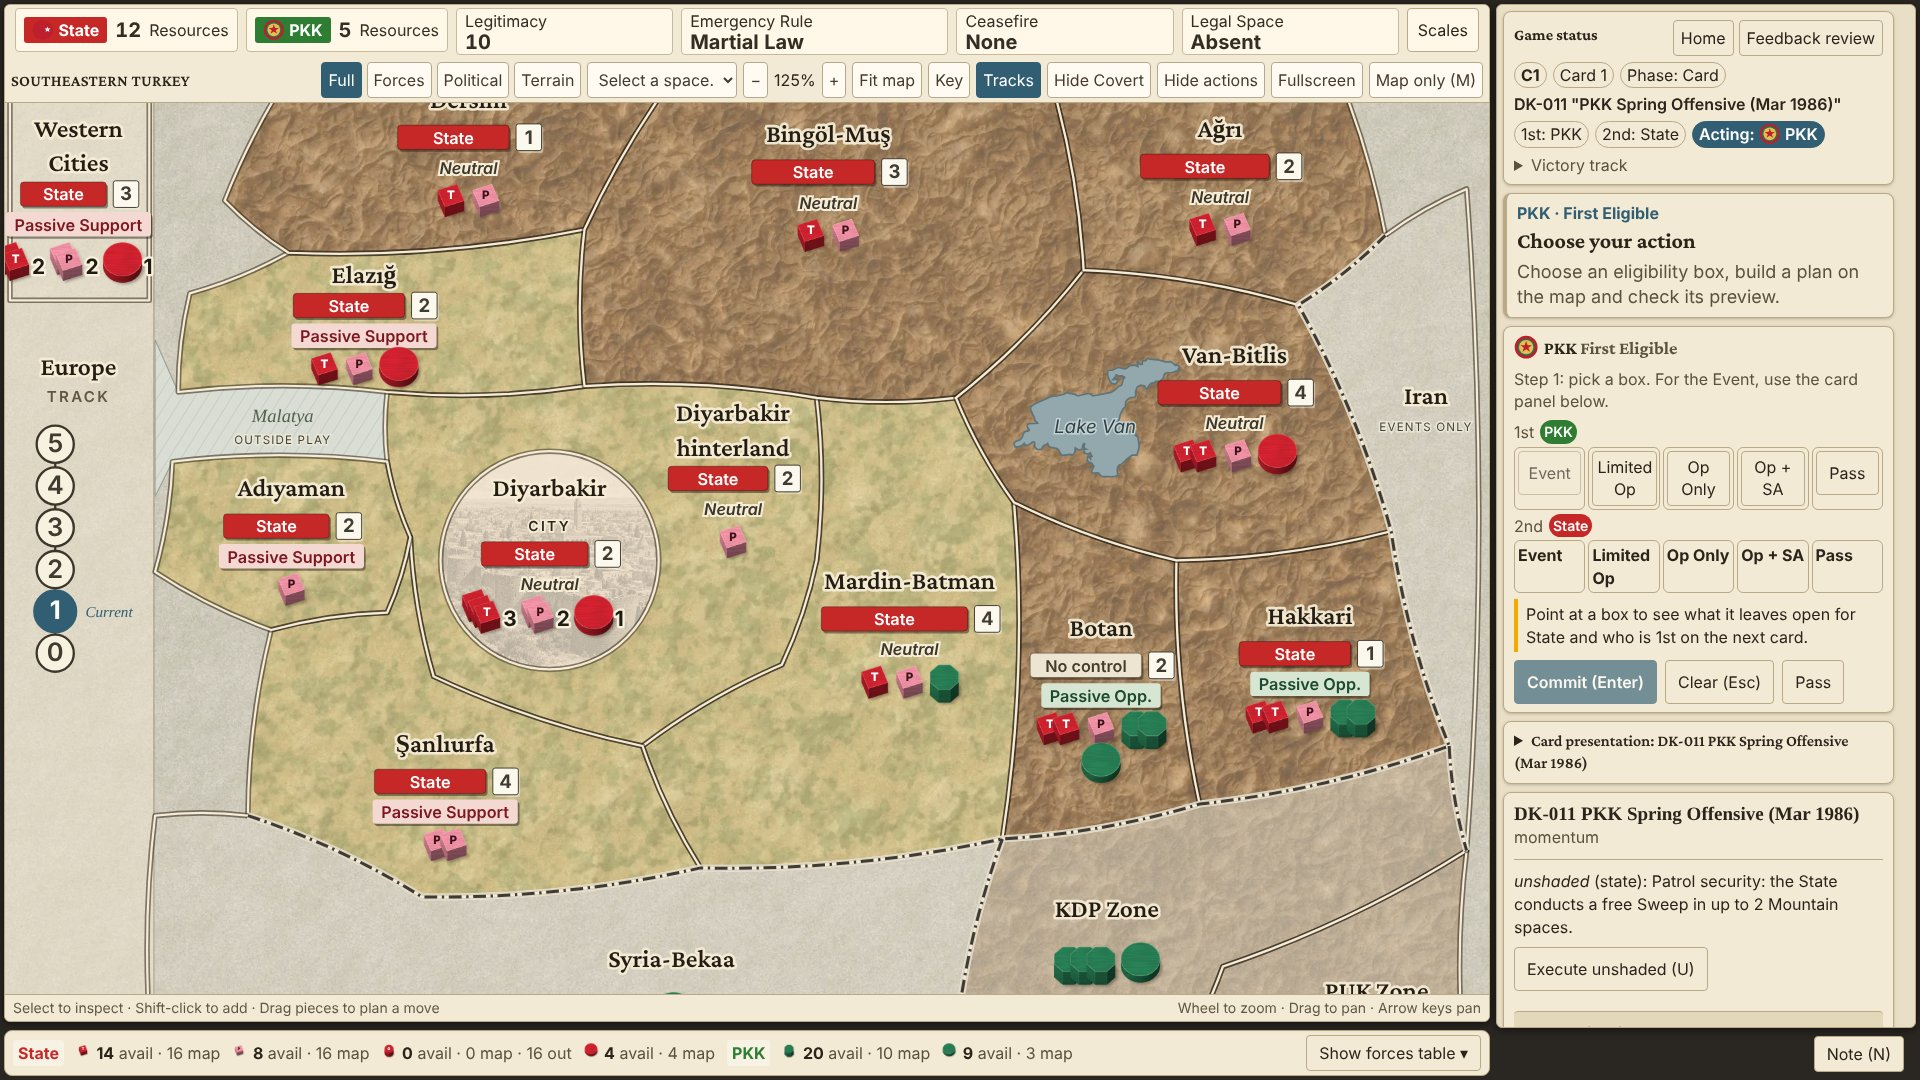
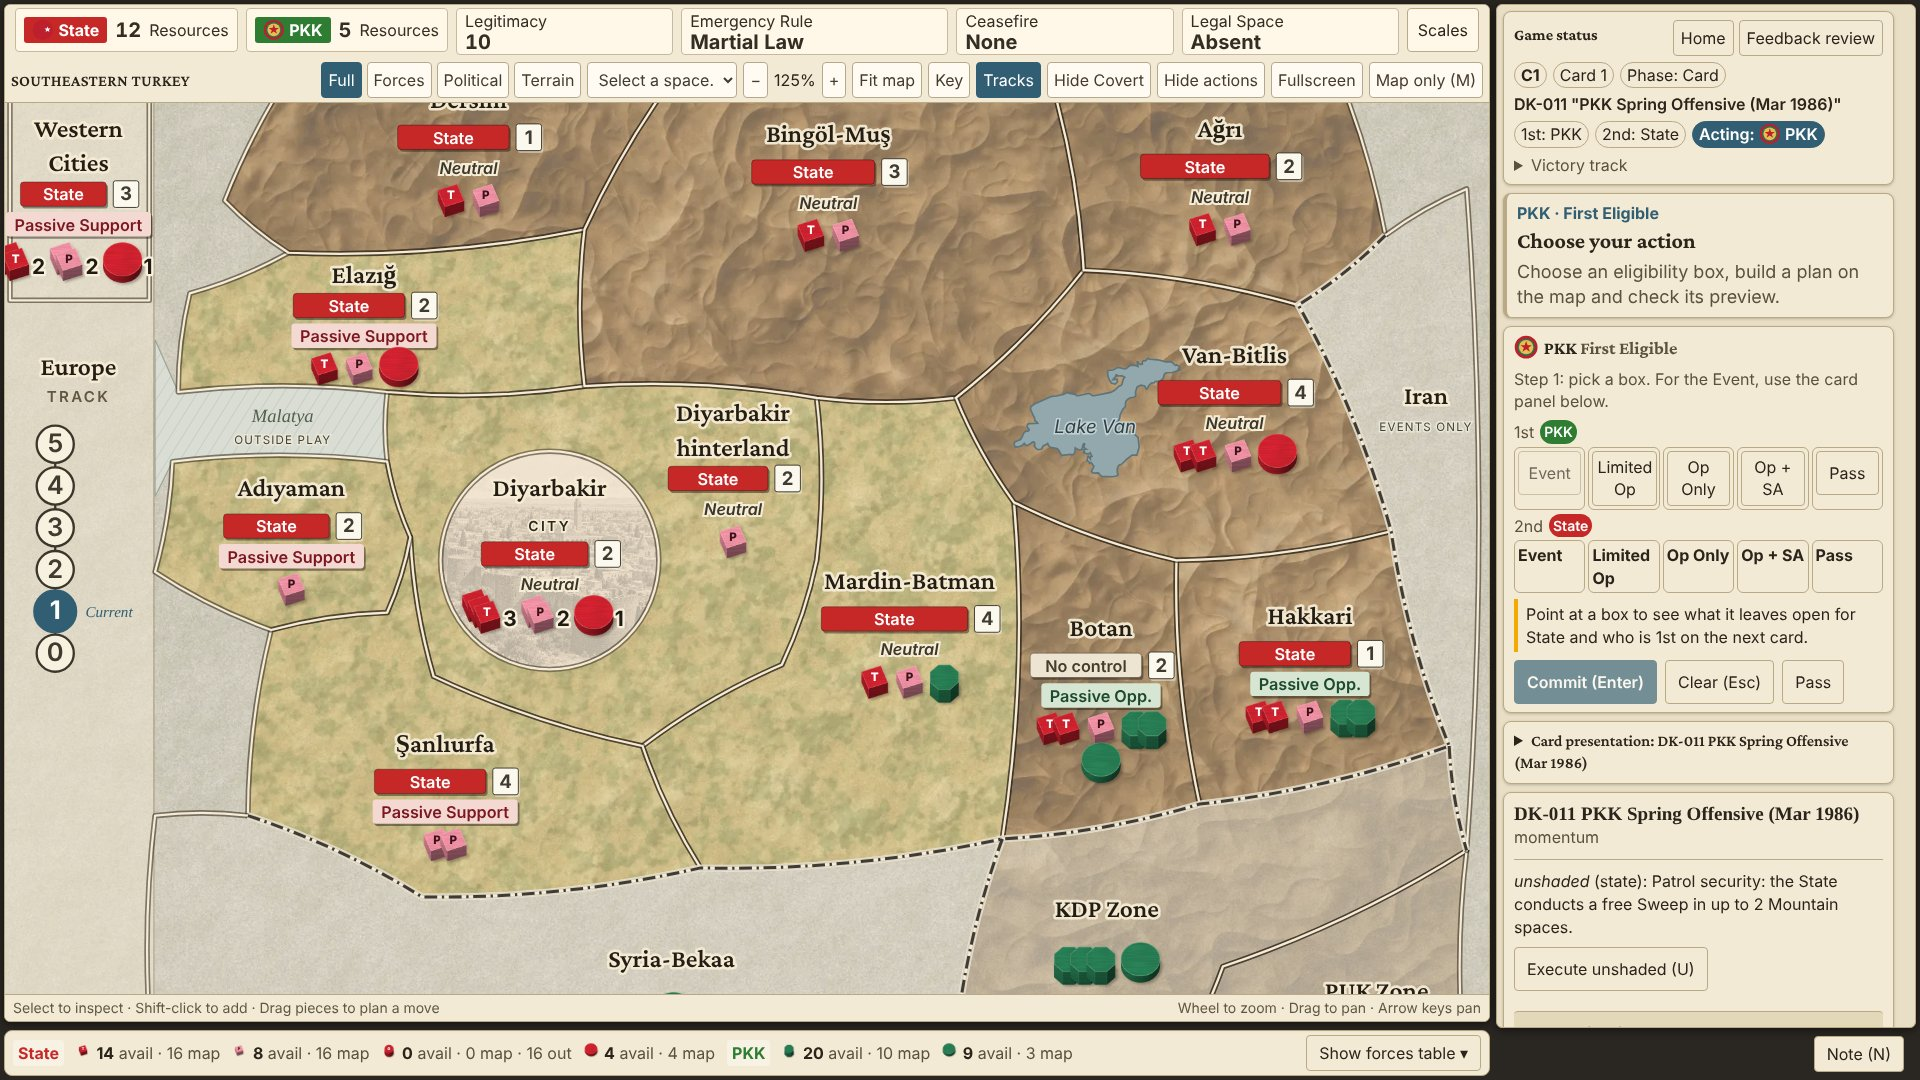
Use the selected highland texture with large massifs (#97)

Changed region(s): [[0.125, 0.0917, 0.75, 0.7944], [0.7188, 0.6111, 0.75, 0.7028]]

diff --git a/docs/coin-visual-redesign-design.md b/docs/coin-visual-redesign-design.md
@@ -26,7 +26,7 @@ Implements `docs/coin-visual-redesign.md`. Geometry, identifiers, links, rules a
 
 | Element | Value |
 |---|---|
-| Highland (mean) | About #96754F, warm brown, shaded relief |
+| Highland (mean) | About #967957, warm brown, shaded relief with large massifs and soft valleys |
 | Plains | About #C1B37B, ochre with olive mottling |
 | Outside play | About #CEC9BA, neutral gray-beige |
 | Area border | Cream #f4ecd6 line, 2.2 px, over dark #2e2114 casing, 5.5 px |
@@ -81,7 +81,7 @@ Measured board share of the viewport:
 ## Asset generation
 
 - The textures and sprites were generated once with Python (Pillow and numpy).
-- Terrain uses fractal noise with hillshade. Pieces use a supersampled software render.
+- Terrain uses fractal noise with hillshade. The highland texture uses few large ridged-noise layers (periods of 100 to 700 px). The designer selected it from three variants. Pieces use a supersampled software render.
 - The scripts are not in the repository, under the repository rule for one-time scripts.
 - The artwork is original. It copies no published game art.
 
